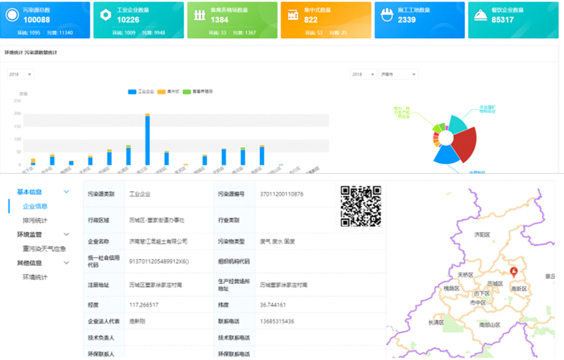
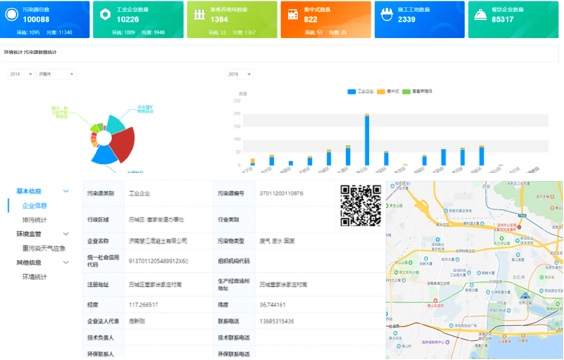
产品中心子页面侧边导航上下居中和图片替换

diff --git a/src/views/ProductDetail.vue b/src/views/ProductDetail.vue
@@ -348,7 +348,9 @@ export default {
   box-shadow: 0 8px 24px 0 rgba(0, 0, 0, 0.06);
   border-radius: 8px;
   position: fixed;
-  top: 408px;
+  top: 50%;
+  transform: translateY(-50%);
+  padding: 20px 0;
   p {
     width: 220px;
     height: 40px;
